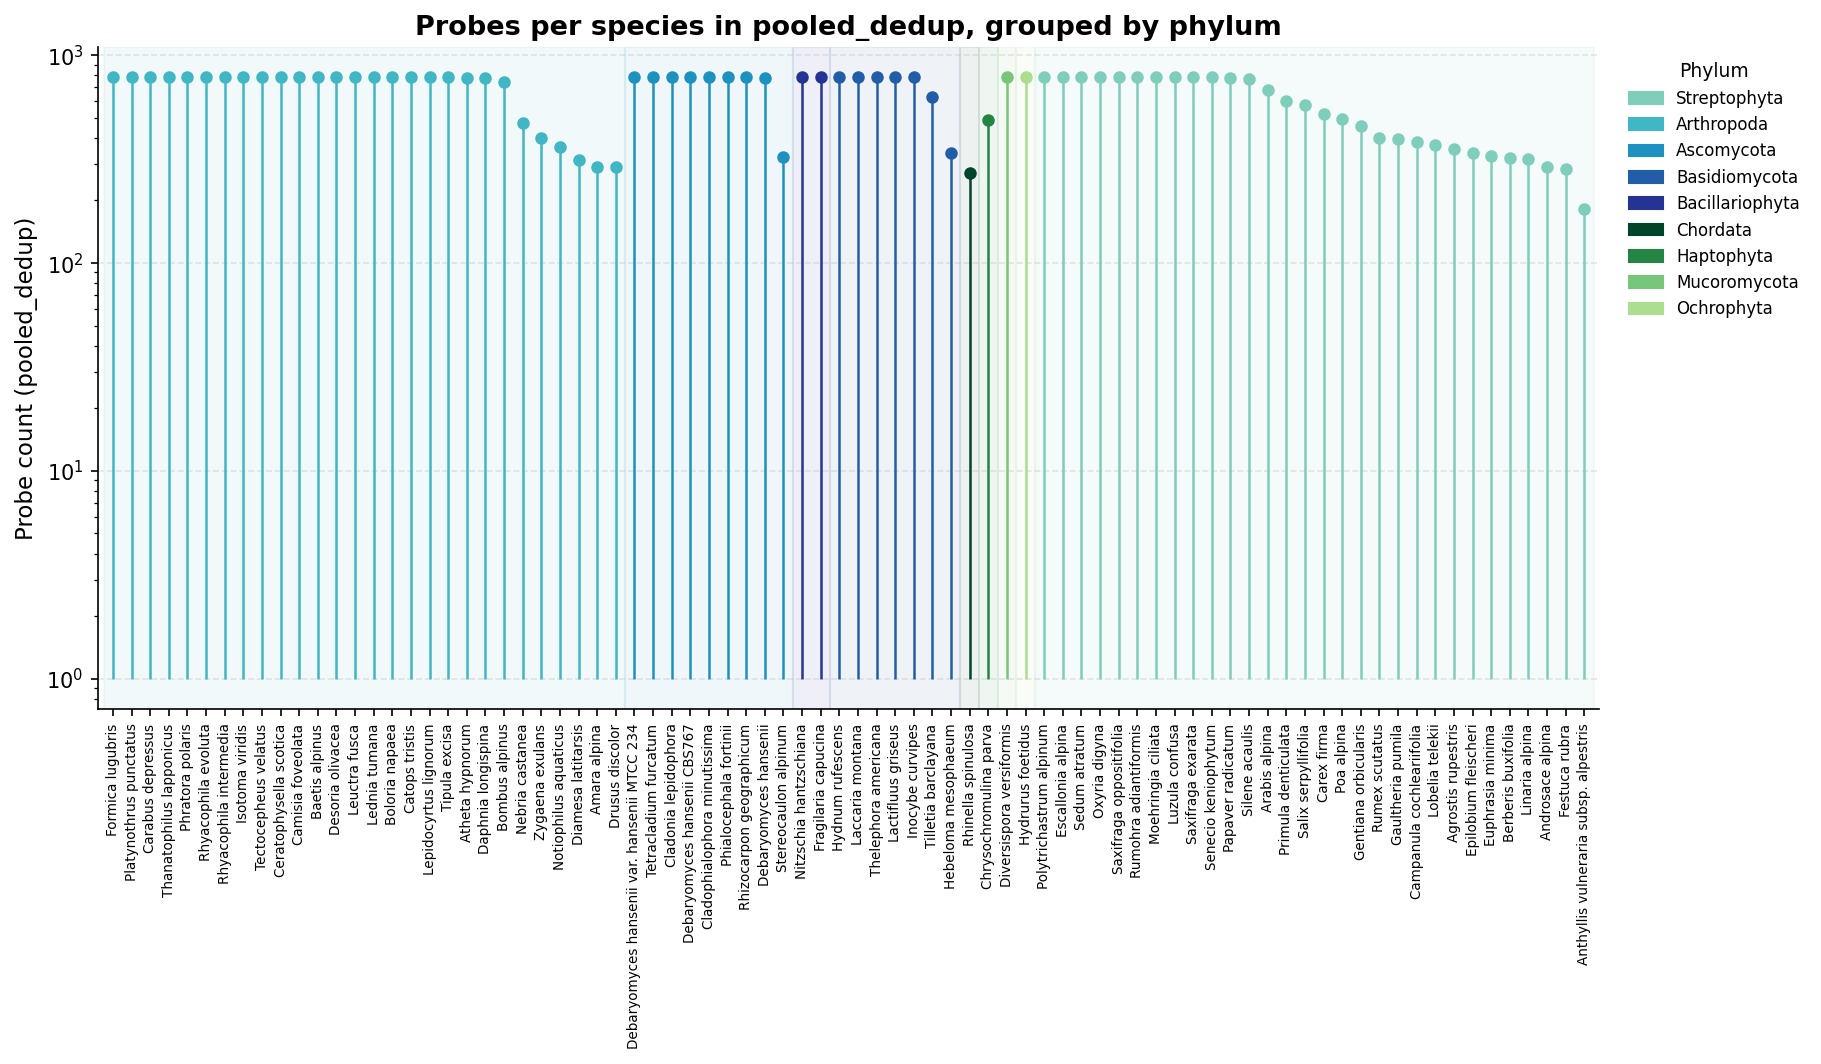
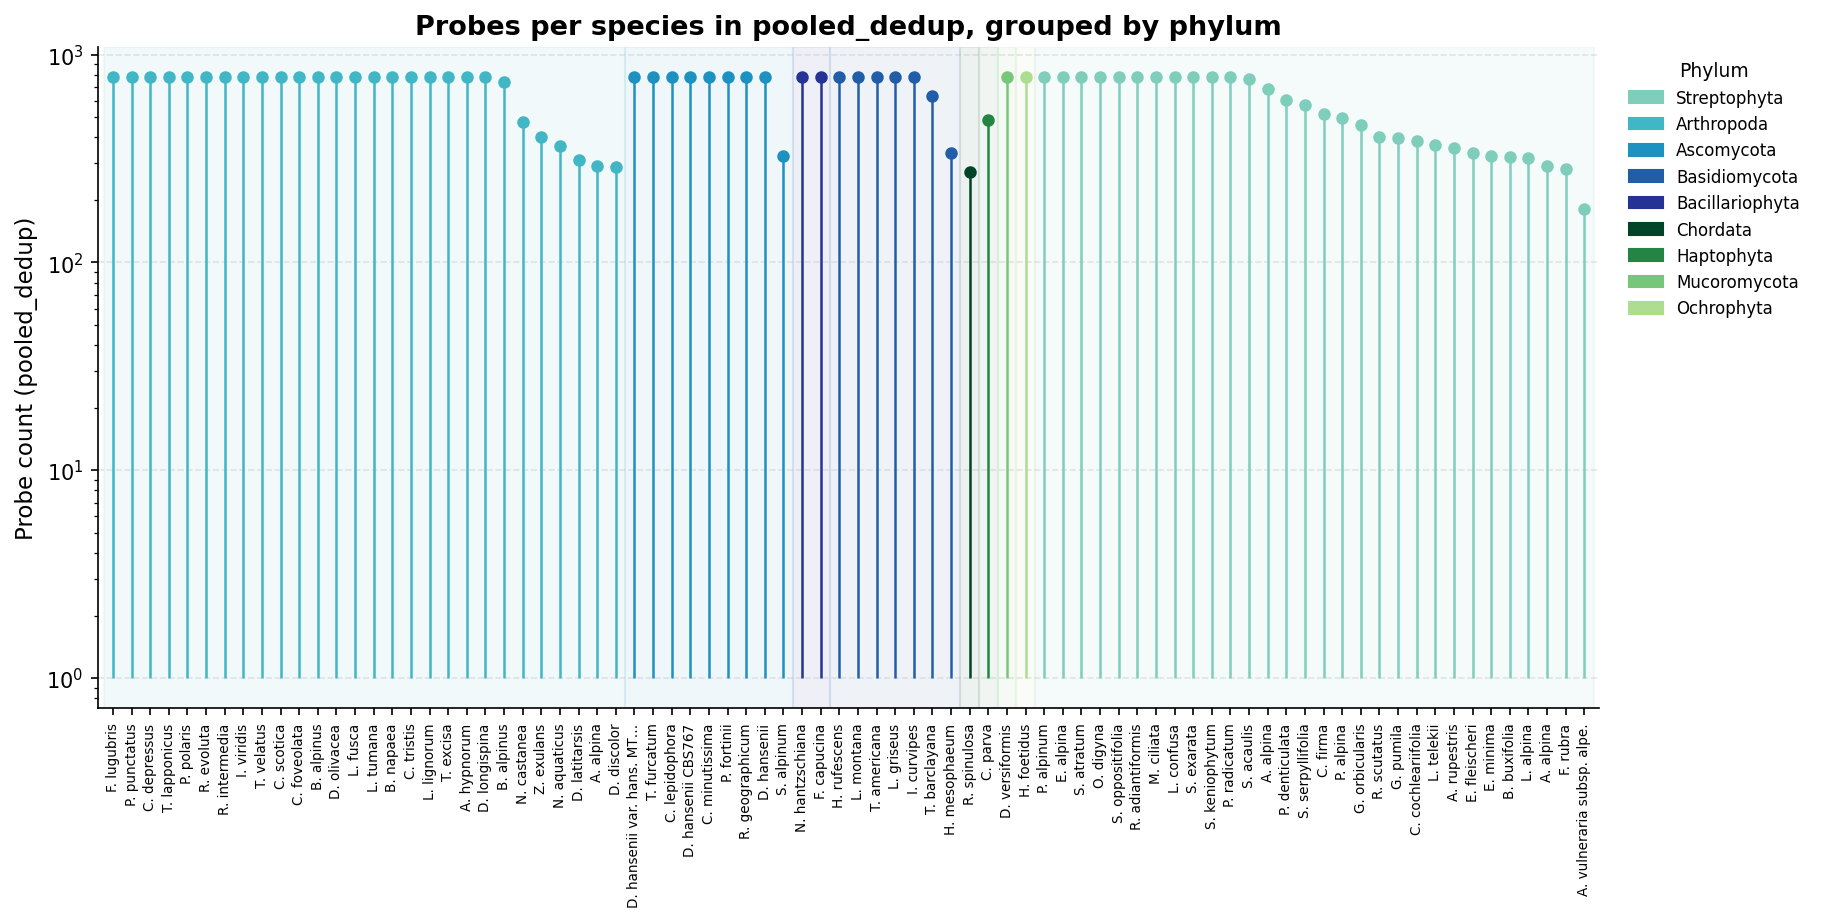
commit

diff --git a/scripts/probe_count_lollipop.py b/scripts/probe_count_lollipop.py
@@ -113,6 +113,57 @@ def fetch_group(taxid, rank, cache):
     return cache[taxid]
 
 
+def abbreviate_name(name):
+    """
+    Shorten a species name for axis labels:
+      'Silene acaulis'                            -> 'S. acaulis'
+      'Anthyllis vulneraria subsp. alpestris'     -> 'A. vulneraria subsp. alp.'
+      'Debaryomyces hansenii var. hansenii MTCC 234' -> 'D. hansenii var. hans. MTCC 234'
+      'Debaryomyces hansenii CBS767'              -> 'D. hansenii CBS767'
+    Rules:
+      1. Genus -> first letter + '.'
+      2. Species epithet kept in full
+      3. subsp./var./f. marker kept, followed by first 4 chars of infraspecific name + '.'
+      4. Strain codes (all-caps tokens or alphanumeric like CBS767) appended as-is
+      5. Result capped at 26 chars (with trailing '…' if needed)
+    """
+    import re
+    tokens = name.split()
+    if not tokens:
+        return name
+
+    result = tokens[0][0] + '.'          # G.
+    if len(tokens) > 1:
+        result += ' ' + tokens[1]        # G. species
+
+    i = 2
+    while i < len(tokens):
+        tok = tokens[i]
+        if tok.lower() in ('subsp.', 'var.', 'f.', 'subsp', 'var', 'f'):
+            marker = tok if tok.endswith('.') else tok + '.'
+            if i + 1 < len(tokens):
+                infra = tokens[i + 1]
+                result += f' {marker} {infra[:4]}.'
+                i += 2
+            else:
+                result += f' {marker}'
+                i += 1
+        elif re.match(r'^[A-Z]{2,}[0-9]*$', tok) or re.match(r'^[A-Z]+\d+$', tok):
+            # strain code like CBS767, MTCC, ATCC
+            strain = tok
+            if i + 1 < len(tokens) and tokens[i + 1].isdigit():
+                strain += ' ' + tokens[i + 1]
+                i += 1
+            result += ' ' + strain
+            i += 1
+        else:
+            i += 1
+
+    if len(result) > 26:
+        result = result[:25] + '…'
+    return result
+
+
 def make_plot(species_data, rank, out_path):
     """
     species_data: list of dicts with keys sid, name, phylum, count
@@ -155,7 +206,7 @@ def make_plot(species_data, rank, out_path):
     ax.set_xlim(-0.8, len(species_data) - 0.2)
     ax.set_xticks(xs)
     ax.set_xticklabels(
-        [r['name'] for r in species_data],
+        [abbreviate_name(r['name']) for r in species_data],
         rotation=90, fontsize=6.5, ha='center'
     )
     ax.set_ylabel('Probe count (pooled_dedup)', fontsize=11)
